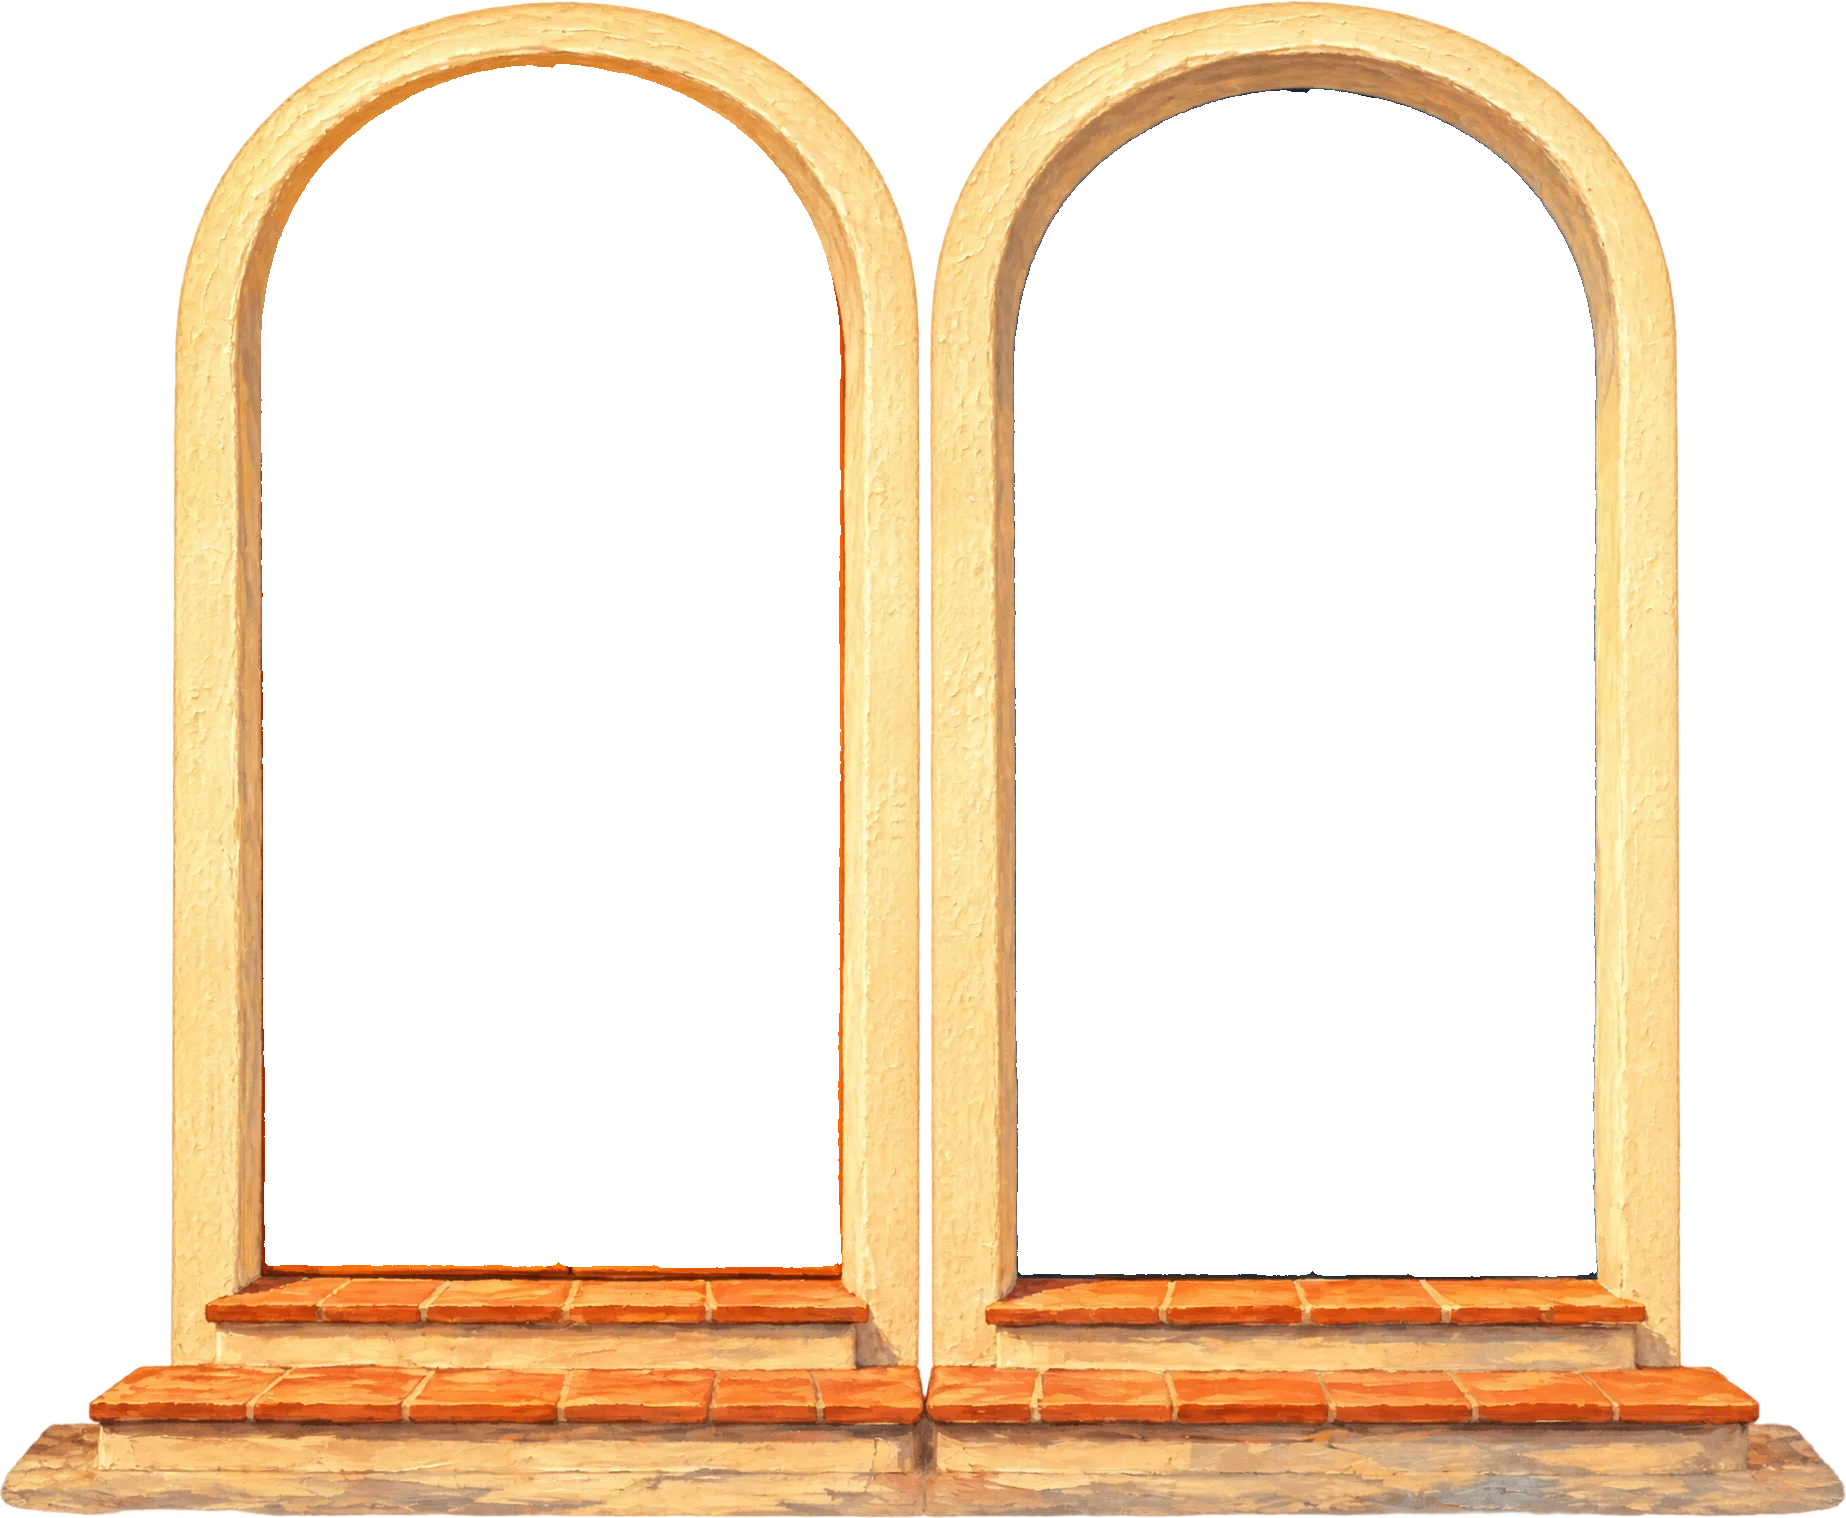
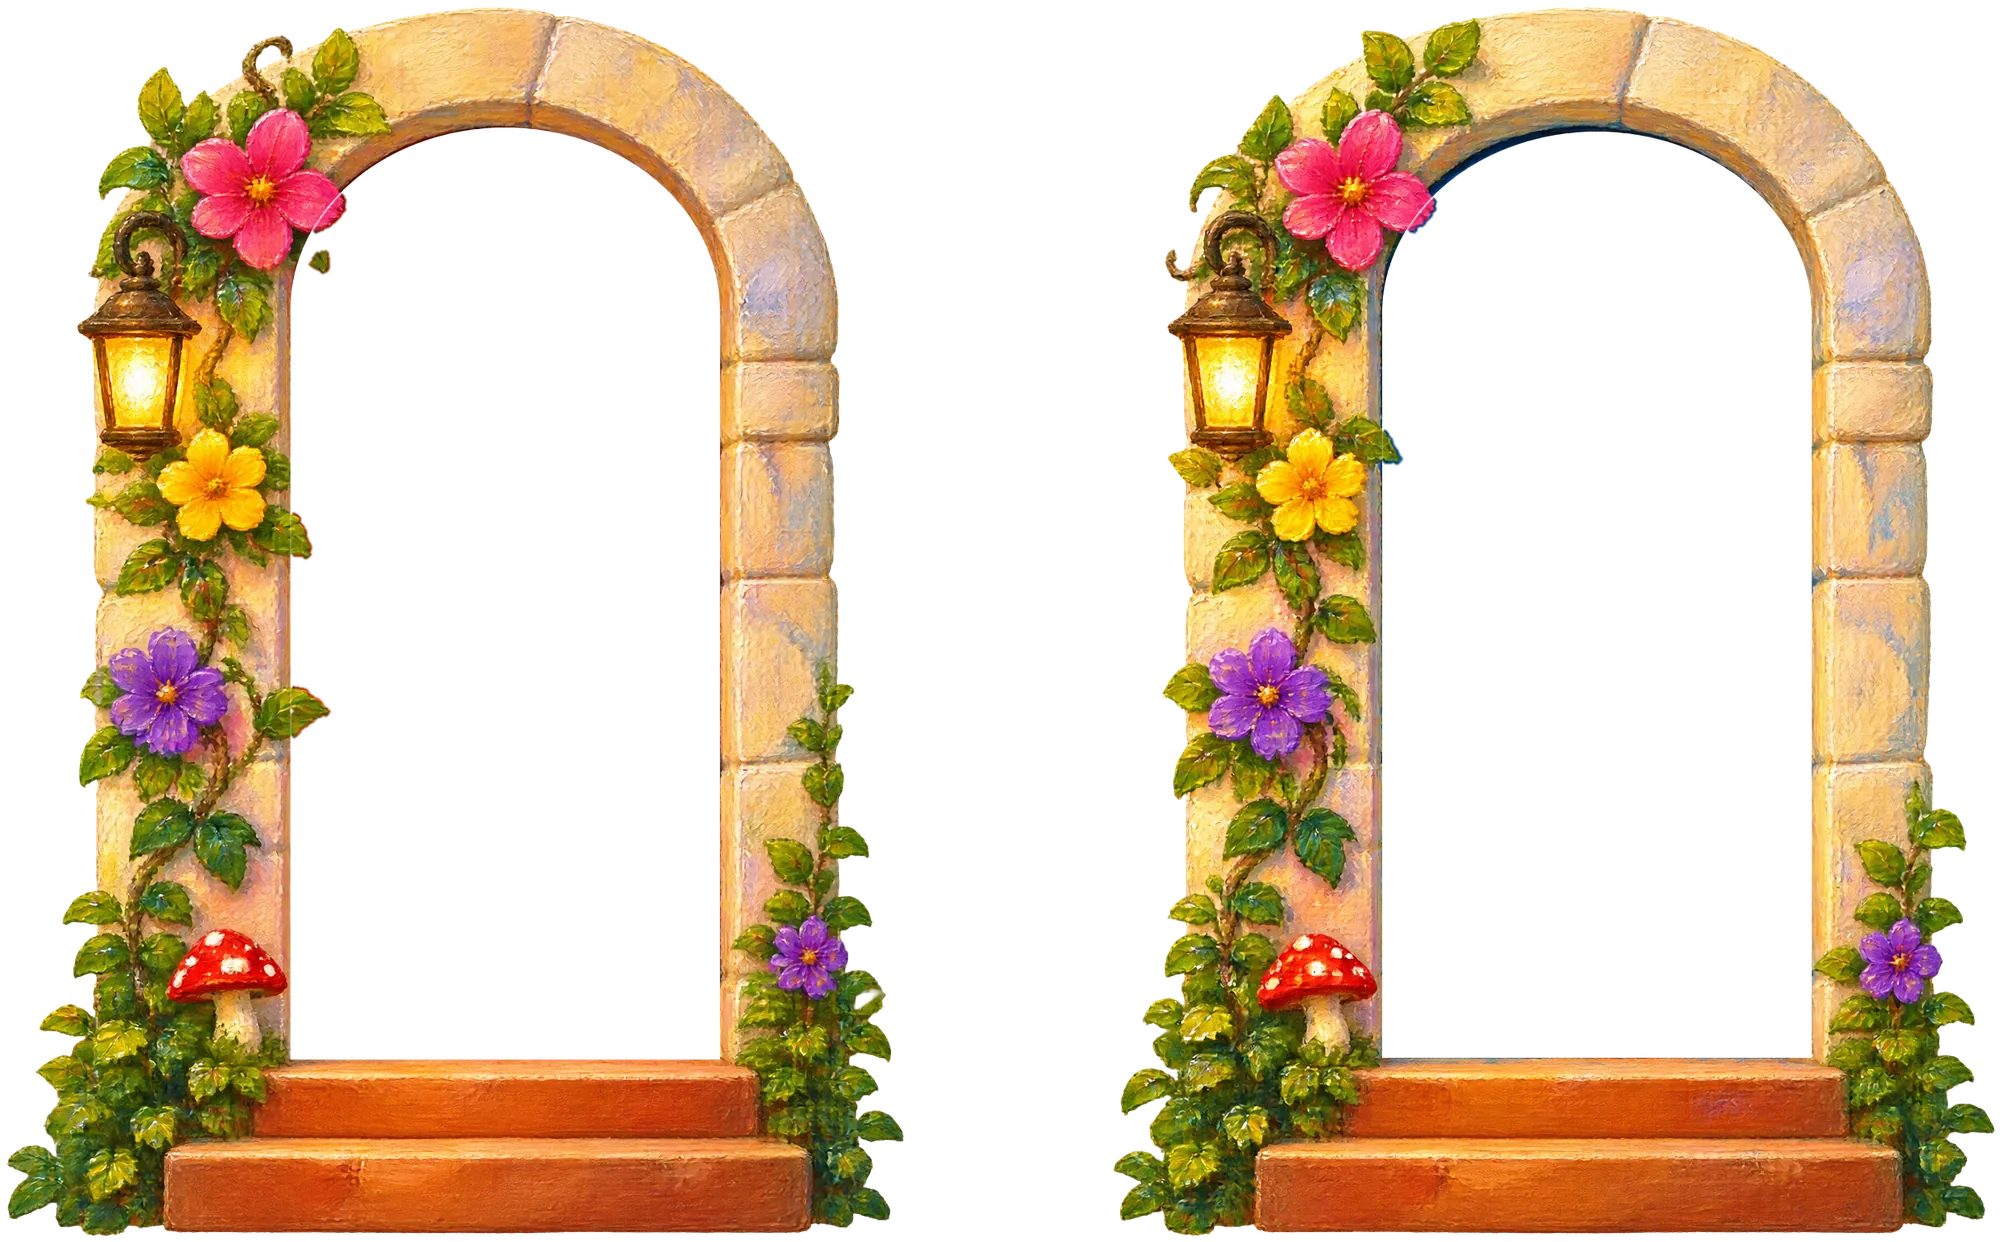
Doors: new Wonderland facade, one-leaf open animation, and touch to peek
Replace the paired door leaves with the new painted doors. Each door swings
open more subtly on its hinge, and a first tap on a phone opens it before
the second tap follows the link.

diff --git a/public/assets/site.css b/public/assets/site.css
@@ -1884,3 +1884,65 @@ body{ isolation: isolate; }
 /* letter: 20% wider, height follows the words (so it's shorter), clean deckled sheet */
 .mail .letter{ width: min(564px, 94vw); margin-left: calc(min(564px, 94vw) / -2); min-height: 0 !important; padding: 48px 52px 46px; }
 @media (max-width: 520px){ .mail .letter{ padding: 34px 26px 32px; } }
+/* =====================================================================
+   TWO DOORS, Wonderland: separate whimsical doors; one leaf each that
+   swings open on its hinge, the knob on the free edge
+   ===================================================================== */
+.facade2--wonder{ width: min(1100px, 96vw); margin-top: 10px; }
+.door4{ position: absolute; display: block; text-decoration: none; color: #fffaf0; perspective: 1000px; outline: none; -webkit-tap-highlight-color: transparent; --open: 22deg;
+  transition: filter .6s ease; }
+/* the room behind the door: warm dark at rest, a soft glow spilling from the gap when it opens */
+.door4__way{ position: absolute; inset: 0; -webkit-mask: var(--way) center / 100% 100% no-repeat; mask: var(--way) center / 100% 100% no-repeat;
+  background: radial-gradient(85% 60% at 50% 72%, #4b2d20 0%, #28160f 52%, #120a07 100%); overflow: hidden; }
+.door4, .door4:hover, .door4:focus, .door4:focus-visible, .door4:active, .door4:visited{ color: #fffaf0; }
+.door4--hinge-left{ --spill: 270deg; }
+.door4--hinge-right{ --spill: 90deg; }
+.door4__light{ position: absolute; inset: 0; opacity: 0; transition: opacity .6s ease;
+  background:
+    linear-gradient(var(--spill), rgba(255,196,108,.8) 0%, rgba(255,160,84,.46) 20%, rgba(255,150,80,.18) 48%, rgba(255,140,80,0) 75%),
+    radial-gradient(70% 45% at 50% 85%, rgba(255,170,100,.3), rgba(255,170,100,0)); }
+.door4__sparks{ position: absolute; inset: 0; opacity: 0; transition: opacity .5s ease;
+  background-image: radial-gradient(2px 2px at 20% 30%, #fff 50%, transparent 51%), radial-gradient(1.5px 1.5px at 70% 22%, #fff 50%, transparent 51%),
+    radial-gradient(2px 2px at 40% 70%, #fff 50%, transparent 51%), radial-gradient(1.5px 1.5px at 80% 60%, #fff 50%, transparent 51%),
+    radial-gradient(2.5px 2.5px at 55% 45%, #fffbe6 50%, transparent 51%), radial-gradient(1.5px 1.5px at 30% 85%, #fff 50%, transparent 51%);
+  animation: door-sparkle 2.4s linear infinite; }
+/* the leaf: the painted door, carrying its sign, words and knob. It swings a little way inward on its hinge. */
+.door4__leaf{ position: absolute; inset: 0; background: var(--leaf) center / 100% 100% no-repeat; transform-style: preserve-3d; backface-visibility: hidden;
+  transition: transform .75s cubic-bezier(.4,0,.2,1), filter .75s ease; }
+.door4--hinge-left .door4__leaf{ transform-origin: 0 50%; }
+.door4--hinge-right .door4__leaf{ transform-origin: 100% 50%; }
+.door4:focus-visible .door4__leaf, .door4.is-open .door4__leaf{ filter: brightness(.9) saturate(.96); }
+.door4--hinge-left:focus-visible .door4__leaf, .door4--hinge-left.is-open .door4__leaf{ transform: rotateY(var(--open)); }
+.door4--hinge-right:focus-visible .door4__leaf, .door4--hinge-right.is-open .door4__leaf{ transform: rotateY(calc(var(--open) * -1)); }
+.door4:focus-visible .door4__light, .door4.is-open .door4__light{ opacity: 1; }
+.door4:focus-visible .door4__sparks, .door4.is-open .door4__sparks{ opacity: .5; }
+.door4:focus-visible, .door4.is-open{ filter: drop-shadow(0 0 12px rgba(255,205,140,.4)); }
+@media (hover: hover){
+  .door4:hover .door4__leaf{ filter: brightness(.9) saturate(.96); }
+  .door4--hinge-left:hover .door4__leaf{ transform: rotateY(var(--open)); }
+  .door4--hinge-right:hover .door4__leaf{ transform: rotateY(calc(var(--open) * -1)); }
+  .door4:hover .door4__light{ opacity: 1; }
+  .door4:hover .door4__sparks{ opacity: .5; }
+  .door4:hover{ filter: drop-shadow(0 0 12px rgba(255,205,140,.4)); }
+  .door4:hover .door4__knob img{ transform: rotate(28deg); transition-delay: 0s; }
+  .door4:hover .door4__leaf{ transition-delay: .1s; }
+}
+/* knob on the free edge (opposite the hinge); it gives a small turn first, then the door follows */
+.door4__knob{ position: absolute; top: 56%; width: 20%; z-index: 2; }
+.door4--hinge-left .door4__knob{ right: 4%; }
+.door4--hinge-right .door4__knob{ left: 4%; transform: scaleX(-1); }
+.door4__knob img{ display: block; width: 100%; height: auto; transform-origin: 26% 50%; transition: transform .35s cubic-bezier(.3,1.3,.5,1);
+  filter: drop-shadow(1px 2px 2px rgba(42,36,32,.4)); }
+.door4:focus-visible .door4__knob img, .door4.is-open .door4__knob img{ transform: rotate(28deg); }
+/* words and the white wooden sign, painted onto the door */
+.door4__content{ position: absolute; left: 10%; right: 10%; top: 15%; display: flex; flex-direction: column; align-items: center; gap: .35em; text-align: center;
+  text-shadow: 0 1px 1px rgba(42,36,32,.6), 0 2px 8px rgba(42,36,32,.35); }
+.door4__sign{ position: relative; isolation: isolate; display: inline-flex; align-items: center; justify-content: center; width: 84%; aspect-ratio: 520 / 220; transform: rotate(-2deg); }
+.door4--sun .door4__sign{ transform: rotate(2deg); }
+.door4__sign::before{ content: ""; position: absolute; inset: 0; z-index: -1; background: url("img/doors/sign.webp") center / 100% 100% no-repeat; filter: drop-shadow(0 3px 3px rgba(42,36,32,.3)); }
+.door4__sign span{ font-family: var(--f-text); font-weight: 700; font-size: clamp(.8rem, 1.9vw, 1.45rem); letter-spacing: .05em; color: #4a3626; text-shadow: none; }
+.door4__title{ font-family: var(--f-text); font-weight: 700; font-size: clamp(.78rem, 1.5vw, 1.12rem); line-height: 1.1; margin-top: .3em; }
+.door4__text{ font-size: clamp(.58rem, 1.02vw, .78rem); line-height: 1.3; }
+.door4:focus-visible .door4__sign{ outline: 3px solid var(--c-lochmara); outline-offset: 3px; }
+@media (max-width: 640px){ .door4__text{ display: none; } }
+@media (prefers-reduced-motion: reduce){ .door4, .door4__leaf, .door4__knob img, .door4__light, .door4__sparks{ transition: none !important; } .door4__leaf{ transform: none !important; } .door4__sparks{ animation: none; } }

diff --git a/public/index.html b/public/index.html
@@ -144,28 +144,28 @@
     <div class="wrap">
       <div class="center"><p class="eyebrow">Two days, two doors</p><h2 id="days-h">Fill up. Then give it away.</h2></div>
     </div>
-    <div class="facade2" style="aspect-ratio:1846 / 1518">
-      <img class="facade2__base" src="assets/img/doors/base.webp" alt="" width="1846" height="1518" loading="lazy" decoding="async">
-      <a class="door3 door3--sat" href="/weekend#saturday" style="left:14.139%;top:4.216%;width:31.473%;height:79.315%;--seam:53.18%" aria-label="Saturday, January 16: Find the joy within. Open the door to see Saturday.">
-        <span class="door3__way" style="--way:url(assets/img/doors/sat-way.webp)" aria-hidden="true"><span class="door3__light"></span><span class="door3__sparks"></span></span>
-        <span class="door3__leaf door3__leaf--l" aria-hidden="true"><img src="assets/img/doors/sat-left.webp" alt="" draggable="false"></span>
-        <span class="door3__leaf door3__leaf--r" aria-hidden="true"><img src="assets/img/doors/sat-right.webp" alt="" draggable="false"></span>
-        <span class="door3__knob" aria-hidden="true"><img src="assets/img/doors/knob.webp" alt="" draggable="false"></span>
-        <span class="door3__content">
-          <span class="door3__sign"><span>SAT. 01.16</span></span>
-          <span class="door3__title">Find the joy within</span>
-          <span class="door3__text">One group, a historic church in North Beach, and a day of rides built around specific kinds of joy. Then out into the city with no map and no phone, and a concert at SF Foundry to close the day.</span>
+    <div class="facade2 facade2--wonder" style="aspect-ratio:2000 / 1242">
+      <img class="facade2__base" src="assets/img/doors/base.webp?v=4" alt="" width="2000" height="1242" decoding="async">
+      <a class="door4 door4--sat door4--hinge-left" href="/weekend#saturday" style="left:14.521%;top:10.265%;width:21.514%;height:75.099%" aria-label="Saturday, January 16: Find the joy within. Open the door to see Saturday.">
+        <span class="door4__way" style="--way:url(/assets/img/doors/sat-way.webp?v=2)" aria-hidden="true"><span class="door4__light"></span><span class="door4__sparks"></span></span>
+        <span class="door4__leaf" style="--leaf:url(/assets/img/doors/sat-leaf.webp?v=2)">
+          <span class="door4__content">
+            <span class="door4__sign"><span>SAT. 01.16</span></span>
+            <span class="door4__title">Find the joy within</span>
+            <span class="door4__text">One group, a historic church in North Beach, and a day of rides built around specific kinds of joy. Then out into the city with no map and no phone, and a concert at SF Foundry to close the day.</span>
+          </span>
+          <span class="door4__knob" aria-hidden="true"><img src="assets/img/doors/knob.webp" alt="" draggable="false"></span>
         </span>
       </a>
-      <a class="door3 door3--sun" href="/weekend#sunday" style="left:54.930%;top:5.863%;width:31.582%;height:78.261%;--seam:50.43%" aria-label="Sunday, January 17: Give it away. Open the door to see Sunday.">
-        <span class="door3__way" style="--way:url(assets/img/doors/sun-way.webp)" aria-hidden="true"><span class="door3__light"></span><span class="door3__sparks"></span></span>
-        <span class="door3__leaf door3__leaf--l" aria-hidden="true"><img src="assets/img/doors/sun-left.webp" alt="" draggable="false"></span>
-        <span class="door3__leaf door3__leaf--r" aria-hidden="true"><img src="assets/img/doors/sun-right.webp" alt="" draggable="false"></span>
-        <span class="door3__knob" aria-hidden="true"><img src="assets/img/doors/knob.webp" alt="" draggable="false"></span>
-        <span class="door3__content">
-          <span class="door3__sign"><span>SUN. 01.17</span></span>
-          <span class="door3__title">Give it away</span>
-          <span class="door3__text">Teams spread across San Francisco and run the rides they dreamed up. Anyone can host. Then we all meet at SF Foundry for the closing ceremony and tea rave.</span>
+      <a class="door4 door4--sun door4--hinge-right" href="/weekend#sunday" style="left:69.107%;top:10.596%;width:21.514%;height:74.636%" aria-label="Sunday, January 17: Give it away. Open the door to see Sunday.">
+        <span class="door4__way" style="--way:url(/assets/img/doors/sun-way.webp?v=2)" aria-hidden="true"><span class="door4__light"></span><span class="door4__sparks"></span></span>
+        <span class="door4__leaf" style="--leaf:url(/assets/img/doors/sun-leaf.webp?v=2)">
+          <span class="door4__content">
+            <span class="door4__sign"><span>SUN. 01.17</span></span>
+            <span class="door4__title">Give it away</span>
+            <span class="door4__text">Teams spread across San Francisco and run the rides they dreamed up. Anyone can host. Then we all meet at SF Foundry for the closing ceremony and tea rave.</span>
+          </span>
+          <span class="door4__knob" aria-hidden="true"><img src="assets/img/doors/knob.webp" alt="" draggable="false"></span>
         </span>
       </a>
     </div>

diff --git a/public/assets/home.js b/public/assets/home.js
@@ -261,6 +261,20 @@
     if (document.fonts) document.fonts.ready.then(placeBulbs);
   }
 
+  /* doors on touch screens: first tap opens the door, a second tap walks through (hover does the same on a mouse) */
+  (function(){
+    var doors = Array.prototype.slice.call(document.querySelectorAll(".door4"));
+    if (!doors.length) return;
+    function closeAll(except){ doors.forEach(function(d){ if (d !== except) d.classList.remove("is-open"); }); }
+    doors.forEach(function(d){
+      d.addEventListener("click", function(e){
+        if (!matchMedia("(hover: none)").matches) return;
+        if (!d.classList.contains("is-open")){ e.preventDefault(); closeAll(d); d.classList.add("is-open"); }
+      });
+    });
+    document.addEventListener("click", function(e){ if (!e.target.closest(".door4")) closeAll(); });
+  })();
+
   /* make a wish: write it on the paper, tick it into the wishing box. Nothing is stored or sent. */
   (function(){
     var form = document.getElementById("wish"), input = document.getElementById("wish-text"), count = document.getElementById("wish-count"), box = document.getElementById("wishbox");
